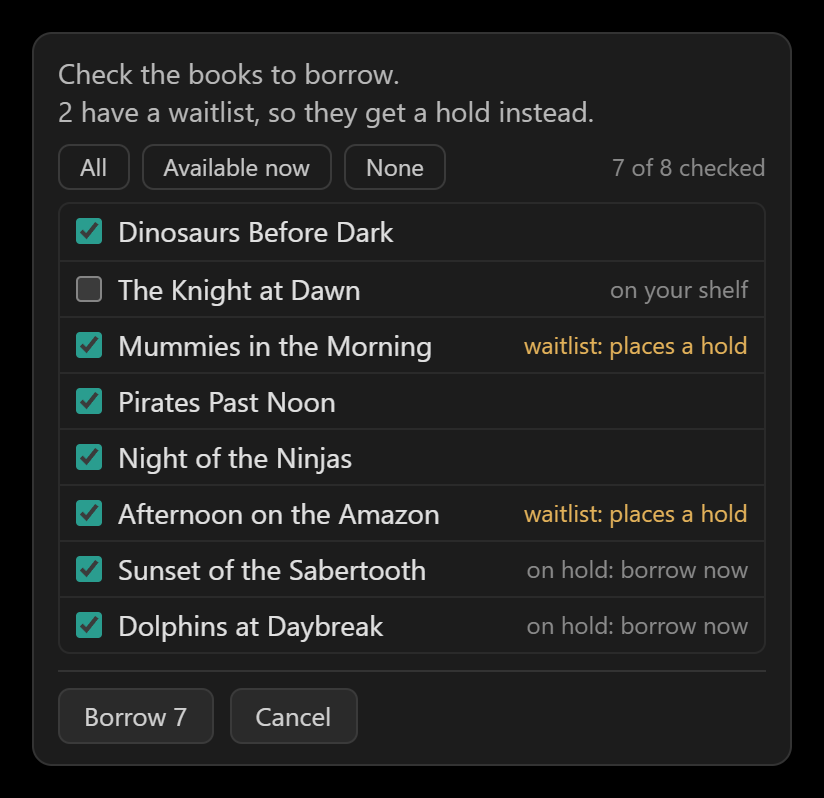
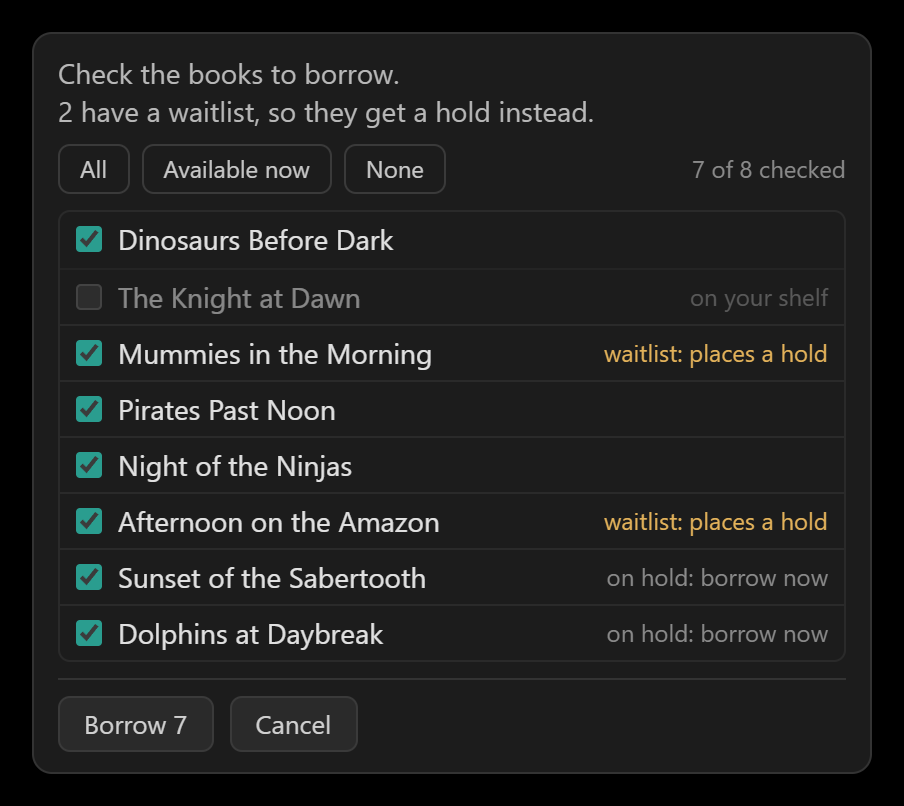
Borrow: rows with nothing to do can't be checked (0.10.2)
Checking a book already tagged Notify Me sent it down the borrow path,
which reported "its Borrow button isn't on screen". In the Borrow list,
books on your shelf, already on hold, or already tagged Notify Me now
have a greyed-out checkbox that can't be checked, and the quick buttons
leave them alone. An already-tagged book is never sent to borrowing.
Borrow screenshot updated.

diff --git a/src/content.js b/src/content.js
@@ -467,6 +467,8 @@
                 font-size: 13px; }
         .pick-row + .pick-row { border-top: 1px solid #2a2a2a; }
         .pick-row:hover { background: #242424; }
+        .pick-row.off { opacity: .55; cursor: default; }
+        .pick-row.off:hover { background: none; }
         .pick-row input { accent-color: #2a9d8f; margin: 0; flex: none; }
         .pick-row .t { flex: 1; min-width: 0; white-space: nowrap; overflow: hidden; text-overflow: ellipsis; }
         .pick-row .nd { flex: none; color: #e3b25a; font-size: 12px; }
@@ -569,7 +571,8 @@
   }
 
   // List every loan with a checkbox and wait for the action button (the ticked loans) or Cancel
-  // (null). rows: [{ loan, ticked, tag, muted }]. quick: [{ id, label, pick: row => ticked? }].
+  // (null). rows: [{ loan, ticked, tag, muted, off }] (off: nothing to do, so it can't be checked).
+  // quick: [{ id, label, pick: row => checked? }].
   function askPick(status, rows, quick, action) {
     const boxes = rows.map(r => {
       const row = document.createElement('label');
@@ -577,7 +580,9 @@
       row.title = r.loan.title;
       const box = document.createElement('input');
       box.type = 'checkbox';
-      box.checked = r.ticked;
+      box.checked = r.ticked && !r.off;
+      box.disabled = !!r.off;
+      if (r.off) row.classList.add('off');
       const t = document.createElement('span');
       t.className = 't';
       t.textContent = r.loan.title;
@@ -598,7 +603,7 @@
       b.textContent = q.label;
       b.dataset.pick = q.id;
       b.addEventListener('click', () => {
-        for (const r of boxes) r.box.checked = q.pick(r);
+        for (const r of boxes) r.box.checked = !r.off && q.pick(r);
         onPickChange?.();
       });
       return b;
@@ -1606,7 +1611,8 @@
       if (holds) question += `\n${holds} ${holds === 1 ? 'has' : 'have'} a waitlist, so ${holds === 1 ? 'it gets' : 'they get'} a hold instead.`;
       if (absent) question += `\n${absent} ${absent === 1 ? "isn't" : "aren't"} at your libraries: check ${absent === 1 ? 'it' : 'them'} to be notified if one gets ${absent === 1 ? 'it' : 'them'}.`;
       const todo = await askPick(question,
-        books.map(b => ({ loan: b, ticked: want(b), tag: label[b.state] || '', muted: b.state !== 'hold' })),
+        books.map(b => ({ loan: b, ticked: want(b), tag: label[b.state] || '', muted: b.state !== 'hold',
+          off: ['loaned', 'held', 'notified'].includes(b.state) })),
         [{ id: 'all', label: 'All', pick: r => want(r.loan) },
          { id: 'now', label: 'Available now', pick: r => r.loan.state === 'borrow' || r.loan.state === 'heldNow' },
          ...(absent ? [{ id: 'notify', label: 'Notify me', pick: r => r.box.checked || r.loan.state === 'notify' }] : []),
@@ -1636,7 +1642,7 @@
         }
         try {
           interruptible = true;
-          const r = book.state === 'notify' ? await notifyOne(book, listPath) : await borrowOne(book, listPath);
+          const r = book.state === 'notify' || book.state === 'notified' ? await notifyOne(book, listPath) : await borrowOne(book, listPath);
           interruptible = false;
           if (r.skip) {
             // A card needs verifying and no other library could lend it: skip it, carry on.
